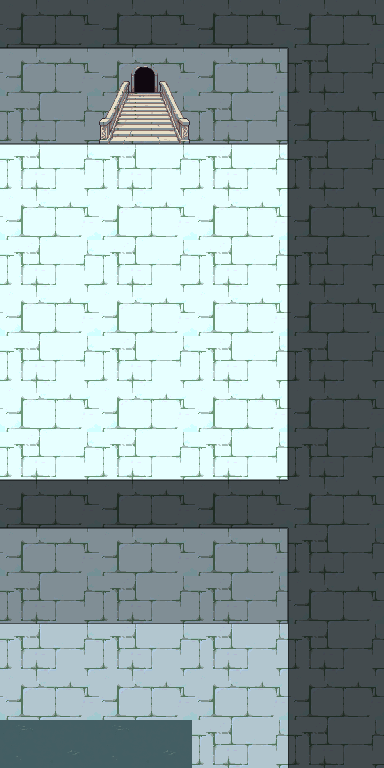
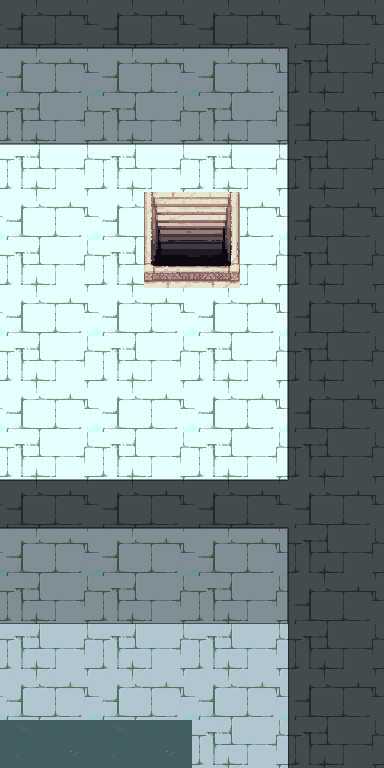
FIR-D2: result (gates, balance, originality PASS); reviewer fixes (pits throw you up a spout, pocket stairwells down, Distinct/Topology wording)

Changed region(s): [[0.375, 0.25, 0.625, 0.375], [0.25, 0.0625, 0.5, 0.1875]]

diff --git a/tests/quest/fire/fir_d2_ice.test.ts b/tests/quest/fire/fir_d2_ice.test.ts
@@ -1,7 +1,7 @@
 /**
  * FIR-D2's Ice Cavern and stage S16 (docs/WORLD_PLAN.md 3.2, 4.0.2, 4.4, 6.4, D-W14), on the compiled maps and the
  * real quest data: B1's pillar hall has three branches, its stair down in the north branch; B1's two pockets are cut
- * off from the hall and reached only by B2's cracked ice (one-way pits), each with a stair back up to B2's arrival;
+ * off from the hall and reached only by B2's cracked ice (one-way pits), each with a stair back down to B2's arrival;
  * B2's way down lies behind the ice shelf, which opens (the patch `fir_d2_shelf`) only on FIR_D2_SHELF, the flag Hesk's
  * cutscene sets; a safe way round the cracks reaches the shelf; B3's vault lies north-east of the arrival; chests
  * 3 / 4 / 3 and none cuts off a way on; the levistone comes only from the eye's postVictoryCutscene; then the S16 walk
@@ -28,12 +28,13 @@ const SHELF = new Set(['FIR_D2_SHELF']);
 const reaches = (d: Map<string, number>, cells: string[]): boolean => cells.some((c) => d.has(c));
 
 describe('FIR-D2: the Ice Cavern floors', () => {
-  it('B1: the mouth leads to the stair down; the two pockets are not reached from the hall, and each climbs to B2', () => {
+  it('B1: the mouth leads to the stair down; the two pockets are not reached from the hall, and each has its stair back to B2', () => {
     expect(ents(b1, 'overworld')).toEqual(['fir_ice']);
     expect(ents(b1, 'ice-cavern-b2')).toEqual(['arrival']);
     const hall = distances(b1, at(b1, 'arrival'));
     const stairs = b1.transitions.filter((t) => t.targetMap === 'ice-cavern-b2').map((t) => key(t.x, t.y));
-    const down = stairs.filter((c) => Math.abs(Number(c.split(',')[1]) - at(b1, 'down')[1]) <= 2);
+    const near = (c: string, [x, y]: [number, number]): boolean => Math.abs(Number(c.split(',')[0]) - x) <= 2 && Math.abs(Number(c.split(',')[1]) - y) <= 2;
+    const down = stairs.filter((c) => near(c, at(b1, 'down')));
     expect(down.length).toBe(2);
     expect(down.every((c) => hall.has(c))).toBe(true);
     for (const p of ['pocket_w', 'pocket_e']) {

diff --git a/assets-src/tools/layouts/fire/ice_b1.py b/assets-src/tools/layouts/fire/ice_b1.py
@@ -5,8 +5,9 @@
 The mouth opens south (WORLD 4.4: below the cliff rows) into a hall of frozen pillars. Three branches leave it: north
 to the stair chamber (the way down) and its blind cutters' alcove; west up a long gully to the frozen fall's grotto
 (a chest, and a dead-end spur); east to the meltwater pool (a chest, a dead-end drain). Two pockets of the floor are
-cut off from the hall: the west pocket and the north-east pocket are reached only by falling through B2's cracked
-ice, and each has a stair back up to B2's arrival (the west one also holds a chest).
+cut off from the hall: the west pocket and the north-east pocket are reached only by breaking through B2's cracked
+ice (the hot spring under it throws you up a meltwater spout), and each has a stair back down to B2's arrival (the
+west one also holds a chest).
 """
 from __future__ import annotations
 
@@ -19,11 +20,11 @@ from ice_common import DONE, Floor, chest, talk  # noqa: E402
 NOTE = ("Concept: a cavern of blue ice under the Frost Hollow, where meltwater from a hot seam far below freezes again "
         "on the way up, and a guild of ice-cutters once quarried the clear ice for the lake town's cellars.\n"
         "Distinct: a hall of frost-whitened pillars with three branches and a frozen fall at the end of one; "
-        "cracked ice that drops you back to a sealed pocket of the floor above, with a stair as the only way out; "
-        "an old ice-cutter who still works the shelf that hides the true stair; a vault where a great eye keeps a "
-        "stone that floats.\n"
-        "Topology: B1 (stair down) -> B2 (two one-way pits back to B1's two pockets, each with a stair up to B2's "
-        "arrival); B2 -> B3 by the stair behind the ice shelf (opened on FIR_D2_SHELF); B3 boss north-east of the "
+        "cracked ice over a hot spring that, when it gives way, throws you up a meltwater spout into a sealed pocket "
+        "of the floor above, with a stair back down as the only way out; an old ice-cutter who still works the "
+        "shelf that hides the true stair.\n"
+        "Topology: B1 (stair down) -> B2 (one-way pits, the cracked cells, up to B1's two pockets, each with a "
+        "stair down to B2's arrival); B2 -> B3 by the stair behind the ice shelf (opened on FIR_D2_SHELF); B3 boss north-east of the "
         "arrival.")
 W, H = 40, 34
 GATE = (19, 20)                          # the bottom-row exit cells, out of the south mouth to the Frost Hollow
@@ -50,8 +51,8 @@ def build() -> Floor:
     g.rect(30, 3, 37, 9, "+")            # the north-east pocket (the pit from B2's east)
     g.faces(2)
     f.stairs_down(19, 5, "ice-cavern-b2", "arrival")
-    f.stairs_up(3, 24, "ice-cavern-b2", "arrival")           # the west pocket's only way out
-    f.stairs_up(34, 1, "ice-cavern-b2", "arrival")           # the north-east pocket's
+    f.stairs_down(3, 27, "ice-cavern-b2", "arrival")         # the west pocket's only way out, back down
+    f.stairs_down(35, 4, "ice-cavern-b2", "arrival")         # the north-east pocket's
     f.transitions += [{"x": x, "y": H - 1, "targetMap": "overworld", "targetEntrance": "fir_ice"} for x in GATE]
     for x, y in ((14, 17), (24, 17), (14, 21), (24, 21), (17, 19), (22, 19)):
         f.pillar(x, y)
@@ -68,7 +69,8 @@ def build() -> Floor:
             (DONE, ["Ice-cutter Brannoc: The cold has gone out of the deep ice. You did that, didn't you? The whole "
                     "cavern sighed an hour ago, like a sleeper turning over."]),
             (None, ["Ice-cutter Brannoc: Mind the white ice below. Where it is crazed like an old plate, it won't "
-                    "hold a cat. My brother went through it once and came up in a hole he'd never seen.",
+                    "hold a cat. My brother went through it once, and the hot spring under it spat him straight up "
+                    "into a hole on this floor he'd never seen.",
                     "The stair you'll find is not the end of it. My father hid the last stair behind a shelf of ice "
                     "on the lower floor, to keep the quarry to ourselves. Old Hesk still sits by it."]))},
     ]
@@ -81,7 +83,7 @@ def main() -> None:
         "A waterfall hangs frozen from the roof, every ripple stopped. Behind the ice, something pale and round "
         "seems to watch you, then is gone."]}]
     print(f.write("b1", "Ice Cavern B1: a hall of frozen pillars with three branches; two sealed pockets.\n" + NOTE,
-                  {"arrival": [GATE[0], H - 3], "down": [19, 7], "pocket_w": [5, 27], "pocket_e": [33, 5]},
+                  {"arrival": [GATE[0], H - 3], "down": [19, 7], "pocket_w": [6, 27], "pocket_e": [32, 5]},
                   extra={"inspect": inspect}, roots=["pocket_w", "pocket_e"]))
 
 

diff --git a/assets-src/tools/layouts/fire/ice_common.py b/assets-src/tools/layouts/fire/ice_common.py
@@ -4,9 +4,9 @@ the chests and the floor writer. The floors are `ice_b1.py`, `ice_b2.py` and `ic
   python3 -I assets-src/tools/layouts/fire/ice_b1.py   (and _b2, _b3)
   python3 -I assets-src/tools/build_map.py ice-cavern-b1 ice-cavern-b2 ice-cavern-b3
 
-The cave is the `ice` remap (WORLD 4.9) of the stone floor; its walls are the temple walls in the same blue. Sheet ice
-(`+`) is the ice remap at a brighter shade; cracked ice (`%`, the rubble material in ice blue) marks the pits of B2,
-each a one-way transition down to a pocket of B1. Meltwater pools are `≈` (the water material, dark blue-green).
+The cave is the `ice` remap (WORLD 4.9) of the stone floor; its walls are the same ice, darker. Sheet ice (`+`) is the
+ice remap at a brighter shade; cracked ice (`%`, the temple rubble greyed) marks the pits of B2, each a one-way
+transition (a meltwater spout) up into a pocket of B1. Meltwater pools are `≈` (the water material, dark blue-green).
 Chests use `CHEST_FIR_D2_*`; the shelf on B2 opens on FIR_D2_SHELF (a patch, cutscene `fir_d2_shelf`); the eye's
 fight sets EVIL_EYE_DEFEATED and `fir_evil_eye_falls` gives the levistone.
 """

diff --git a/assets-src/tools/layouts/fire/ice_b2.py b/assets-src/tools/layouts/fire/ice_b2.py
@@ -3,8 +3,9 @@
   python3 -I assets-src/tools/layouts/fire/ice_b2.py && python3 -I assets-src/tools/build_map.py ice-cavern-b2
 
 A field of sheet ice in three bands (south, middle, north), split by two ridges of ice rock with necks between them.
-Cracked ice (`%`) does not hold: every cracked cell is a one-way pit down to a pocket of B1 (west of x 22 the west
-pocket, east of it the north-east one), whose stair comes back up to this floor's arrival. The direct necks are
+Cracked ice (`%`) does not hold: the hot spring under it throws whoever breaks through up a meltwater spout, a
+one-way pit into a pocket of B1 (west of x 22 the west pocket, east of it the north-east one), whose stair comes back
+down to this floor's arrival. The direct necks are
 cracked; the safe ones are far round. The north band ends at the ice shelf, a wall of old ice with the hidden stair
 hall behind it: talking to Hesk the ice-cutter plays `fir_d2_shelf`, which sets FIR_D2_SHELF, and the patch
 `fir_d2_shelf` turns the shelf's cells into floor for good. Four chests: three in the field's blind spurs, one in the

diff --git a/docs/WORLD_PLAN.md b/docs/WORLD_PLAN.md
@@ -3196,6 +3196,114 @@ and `world_fire_data.py` (FIRE's region; Crescent's site from `fire/town_crescen
 <!-- === FIR-D1 FIRE (pass W: owned by FIR-D1) === -->
 <!-- === end FIR-D1 === -->
 <!-- === FIR-D2 FIRE (pass W: owned by FIR-D2) === -->
+### FIR-D2 result: the Ice Cavern B1-B3, S16 (branch `w-fir-d2` from `mainline` bcf6d1b8)
+
+No AI or paid calls. No kneel files. Scratch in `/tmp/w-fir-d2/`.
+
+**Files:**
+
+- Layouts: `layouts/fire/ice_common.py` (materials, the per-floor encounter tables, chests, the floor writer),
+  `ice_b1.py`, `ice_b2.py`, `ice_b3.py` -> `ice-cavern-b1` (40x34), `-b2` (44x38), `-b3` (40x34), compiled (the FIR-O
+  stubs are replaced; canon entrances `arrival` / `down` / `boss` and links kept). Every floor: `exit` to
+  `overworld:fir_ice`, the `ice_cave` background (staged; `--check ice_cave` has no bounds and exits 0), encounters
+  from the S16 roster (B1 wolves / ice_gigas / specters / remorazz, B2 adds dark_wizard and white_dragon, B3
+  mindflayers, white_dragon, dark_wizards). B2 and B3 `canSave: false`.
+- Materials: the `ice` remap on the stone floor; sheet ice (`+`), walls (`W`, `F`) and packed snow (`_`) are the
+  same ice at other shades (the remaps apply in order, so later entries read the recoloured `floor_stone`); cracked
+  ice (`%`) is the temple rubble greyed; meltwater (`≈`). `ice_floe` placeholders (style `snow`) as ice blocks.
+- Data: `cutscenes.yaml` (`fir_d2_shelf`: sets FIR_D2_SHELF; `fir_evil_eye_falls`: sets EVIL_EYE_DEFEATED,
+  `give_item levistone`); `enemies.yaml` (evil_eye `bossPhases` only); `quest.yaml` S16 (`entry`, `walk`,
+  `nonLoadBearing`, `status: built`); `debug-scenarios.yaml` (`w_s16_start`, `w_boss_evil_eye`);
+  `assets/backgrounds/ice_cave.webp`.
+- Tests: `tests/quest/fire/fir_d2_ice.test.ts` (9: B1's pockets cut off from the hall, each with its own stair; every
+  B2 pit lands in a pocket and nothing leads back onto one; the B3 stair is out of reach until FIR_D2_SHELF and a way
+  round the cracks reaches it and Hesk; only `fir_d2_shelf` sets the flag; the vault NE at path >= 40; chests 3/4/3,
+  none cuts a way on from any entrance; exit / roster / background / canSave; the levistone only from
+  `fir_evil_eye_falls` (D-W14); S16 (a)-(c) and the closure), helper `tests/quest/fire/icePaths.ts`,
+  `tests/balance/w_fir_d2.test.ts`.
+
+**Design.** B1: the south mouth opens into a hall of six frost-whitened pillars with three branches: north to the
+stair chamber and the cutters' alcove, west up a gully to a frozen waterfall's grotto (a pool, a chest, a snow spur),
+east to a meltwater pool (a chest, a drain). Two pockets (SW, NE) are walled off from the hall; each has a stair down
+to B2's arrival and is reached only from B2's cracks. B2: three bands of sheet ice split by two ridges with necks;
+the direct necks are cracked, and every cracked cell (19) is a one-way transition (the hot spring under the ice throws
+you up a spout) to `pocket_w` (x < 22) or `pocket_e`. The safe route goes by the south ridge's middle neck and the
+north ridge's side necks. The north band ends at the ice shelf: talking to Hesk the ice-cutter plays `fir_d2_shelf`,
+and the patch `fir_d2_shelf` (4 cells, ground `-`, the first patch on a non-world map) opens the stair hall for good.
+Two inspect cells on the shelf ring hollow. B3: the landing (SW), two ways to the vault (NE): the gallery of frozen
+watchers and its upper passage, or the south gut, the sump hall and the rime stair; the mirror pool chamber joins
+both. Touching the floating stone (`fir_d2_stone`, `hideIf: EVIL_EYE_DEFEATED`) starts
+`[evil_eye, ice_gigas, dark_wizard x2]` (`isBoss`, postVictoryCutscene `fir_evil_eye_falls`).
+
+Chests (`CHEST_FIR_D2_*`): B1 hi_potion, ether, cabin (west pocket); B2 phoenix_down, opal_armlet, hi_potion,
+ice_brand (the stair hall); B3 opal_helm, phoenix_down, hi_potion. The opal pieces are B6, one band over (3.6).
+
+**Gates:**
+
+| Gate | Output |
+|---|---|
+| G1 | the 3 ice scripts (PYTHONHASHSEED 1), `stubs.py` (`kept 39 real maps`) and `world.py` re-run after the commit: `git diff --exit-code assets-src/maps` clean |
+| G2 | `build_map.py ice-cavern-b1 ice-cavern-b2 ice-cavern-b3` (under the world-compile lock): `40x34`, `44x38`, `40x34 -> assets/maps/ai/...`; `--check-determinism`: all three `deterministic`. No site file changed, so no world compile |
+| G3 | no overworld chunk changed |
+| G4 | `npm run build` exit 0; `npx vitest run --maxWorkers=2 --minWorkers=1`: `Test Files 326 passed (326)`, `Tests 7208 passed, 5 skipped (7213)` |
+| G5 | `npm run quest -- --mutate --stage S16`: (a)-(h) OK, `(b) skips: OK (21 withheld runs, 0 reach a later stage, 20 not required)`, `(c) 77724 states`, `(d) bands: OK evil_eye L21.9 [21,24]`, `mutations: OK (4 gate rows; 5 elements, each removal reported)`, `quest-verify: OK`. GT-21 (both canoe cuts) and GT-37 (the ring cut) are now caught: `SKIP S16 evil_eye reachable without canoe`. Full `npm run quest -- --mutate`: `mutations: OK (48 gate rows; 60 elements)`, `quest-verify: OK` |
+| G6, G7 | assetCoverage, fileCeilings, questCeilings pass (in G4); every FIR-D2 file is under 250 lines (the largest, `ice_common.py`, has 97) |
+| G8 | `build_map.py --selftest`: `terrain selftest: 45 checks passed`, `build_map selftest: 104 checks passed` |
+| G9 | `w_fir_d2.test.ts` 3 passed; `check-bounds: OK (15 tests)` |
+| G10 | browser on port 5232 with `mute=1`, my own headless Chromium (Playwright in `/tmp/w-fir-d2/pw`, a field BFS on the real `fieldRules`). `w_s16_start` (Title > Debug): overworld (148, 124) -> canoe down R-ice -> `ice-cavern-b1` (19, 31) -> stair -> B2 (22, 32); the B3 stair had no path before the shelf -> Hesk -> FIR_D2_SHELF set, the shelf drawn open -> B3 (9, 27) -> the stone -> `Evil Eye, Ice Gigas, 2x Dark Wizard` on `ice_cave`, won on the first try by confirm-mashing; it ended with EVIL_EYE_DEFEATED and `levistone:1` (10 battles in all). 0 console errors. Screens: `/tmp/w-fir-d2/s16_start.png`, `s16_b1.png`, `s16_b2.png`, `s16_shelf.png`, `s16_b3.png`, `s16_battle.png`, `s16_end.png` |
+| G12 | designNotes and originality pass (`ice-cavern: branching`); a fresh reviewer gave `originality review: PASS ice-cavern-b1 ice-cavern-b2 ice-cavern-b3` |
+| G13, G14 | `(g) geography: OK s*=0.736 (31 pairs; 0 assumed)`, `(h) travel matrix: OK` (in G5) |
+| G16 | `stubs.py --check fir-d2`: `stubs: 0 left for FIR-D2` |
+| G17 | `bands: OK`, `basins: OK (aldi 2779 cells, ocean 12692 cells; canal joins)` |
+
+**Balance (S16, `[evil_eye, ice_gigas, dark_wizard x2]`, kit `w_s16`, 400 seeds, 3 potions):**
+
+- With the roster's numbers the eye (162 HP, agility 7) dies before it acts: 100 % at L18-L24 for both policies,
+  alone or with any escort tried (mindflayer x2, white_dragon + specter x2, remorazz x2, dark_wizard x3, ice_gigas,
+  white_dragon x2). A phase alone changes nothing, because the eye is the weakest target and falls first.
+- The fix: a `bossPhases` entry at hpThreshold 1.0 (crossed at the first round start), hits 3, attack 100, plus the
+  formation: its warden (ice_gigas) and two rime-seers (dark_wizard, 105 HP), which the sensible policy strikes first.
+  Without the phase the same formation is 100 %.
+- Measured: sensible L20 60.3 %, **L22 80.0 %**, L24 88.8 %; careless L20 77.8 %, L22 90.5 %, L24 97.3 %.
+- Bounds: L22 [70, 90], L20 <= 64, L24 >= 85.
+
+**Originality numbers:**
+
+- Stair graph: `b1>b2 b2>b1 b2>b3 b3>b2`. B1 -> B2 by the stair and both pocket stairs (all to `arrival`); B2 -> B1
+  only by the stair (`down`) and the one-way pits (`pocket_w`, `pocket_e`); B2 <-> B3 by the stair behind the shelf.
+  Branching (twin ways and one-way edges).
+- Dead ends: B1 5, B2 5, B3 5.
+- Boss: NE of the arrival, path 51.
+- Shapes (aspect / fill): B1 1.125 / 0.475, B2 1.235 / 0.419, B3 (40x34) taller than B2 so the two differ
+  (the first B3 at 40x32 matched B2's shape within 5 %, which `originality.test.ts` caught).
+- The reviewer's remarks, all applied: the eye-and-floating-stone claim left the Distinct line (it is the classic's);
+  the Topology line says "pits, the cracked cells" not "two pits"; the pits now throw you *up* (a hot-spring spout)
+  since B1 lies above; the pocket stairs are stairwells down (they had the stairs-up art).
+
+**Deviations and hand-offs:**
+
+- The shelf trigger is Hesk (an NPC with the cutscene), not an inspect cell: inspect cells take text only (as ORD-O
+  found). The inspect cells on the shelf give the hint ("rings hollow") and, once open, a new line.
+- The shelf is a `patches` entry on a dungeon map (wall to floor on FIR_D2_SHELF) instead of a `keyItemGate`, so the
+  wall is drawn and then drawn open. `bake_patches`, `CollisionMap` and the verifier handled it unchanged.
+- The boss fight adds three escorts (the guardian ice_gigas, two dark_wizard): the roster eye can't reach the 3.7 band
+  through `bossPhases` alone.
+- `w_s16_start` and S16's `entry` start at Crescent's gate with the ship at the `fir_crescent` dock and the canoe held,
+  so (b) withholds the canoe. FIRE_CRYSTAL_LIT is not among the scenario's flags (S15 runs in parallel).
+- The NPCs use tinted existing sheets (Brannoc `farmer`, Hesk `old_man`, the stone `chest`); as ORD-O noted, the
+  tint does not show on the 2x field art.
+- I edited no shared files outside my anchors. New local flags: `FIR_D2_SHELF`, `CHEST_FIR_D2_*` (10 chests).
+- Incident: I ran `build_map.py --selftest` inside my own `flock` wrapper on the world-compile lock. The selftest
+  takes the lock itself, so it waited on my wrapper. For about 20 minutes it held up the other tranches' compiles
+  (2 `--region` compiles and another selftest were waiting) until I killed it. `build_map.py` takes the lock for any
+  map, so no outer wrapper is needed.
+
+**AGENTS.md delta (for INT):**
+
+- "Editing a 2x Map" gains `layouts/fire/ice_b{1,2,3}.py` + `ice_common.py` (`ice-cavern-b1..b3`).
+- A map's `materials` remaps apply in order: an entry `from` a material remapped above it reads the recoloured one.
+- A dungeon floor may carry `patches` (a flag-opened wall: B2's shelf); the compiler bakes `patch_<id>.png`.
+- The debug scenarios gain `w_s16_start` and `w_boss_evil_eye`.
 <!-- === end FIR-D2 === -->
 <!-- === ORD-O ORDEAL (pass W: owned by ORD-O) === -->
 ### ORD-O result: the Citadel of Trials and Bahamut (branch `w-ord-o` from `mainline` 62033ba)
